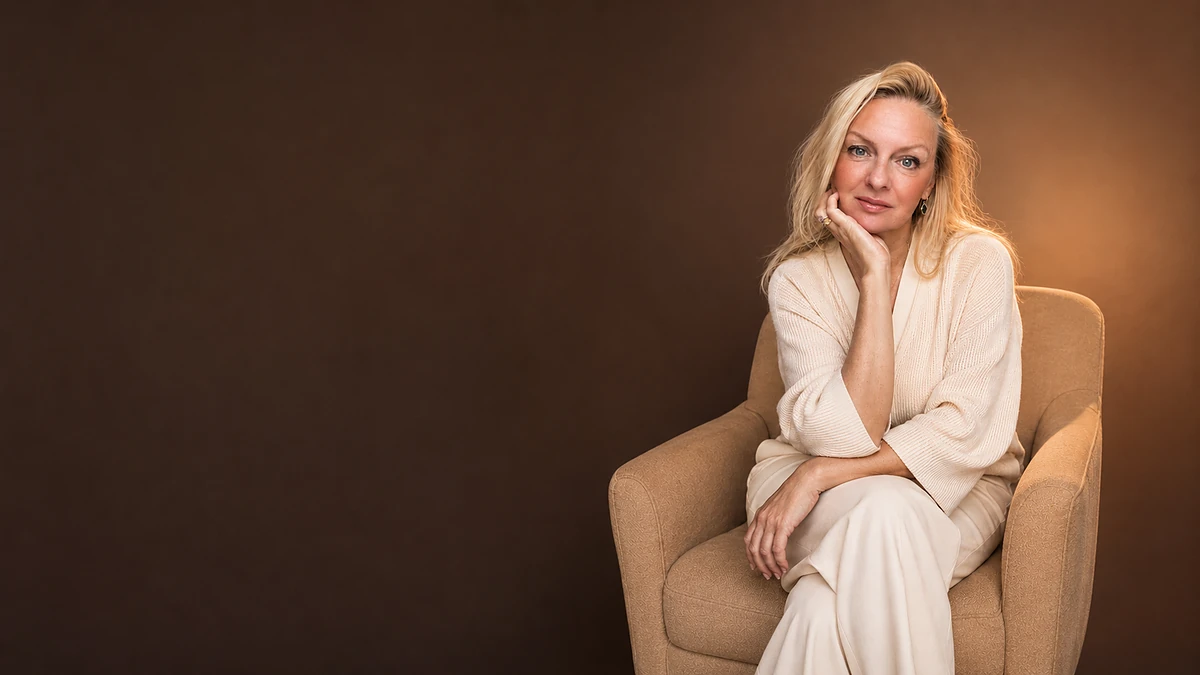
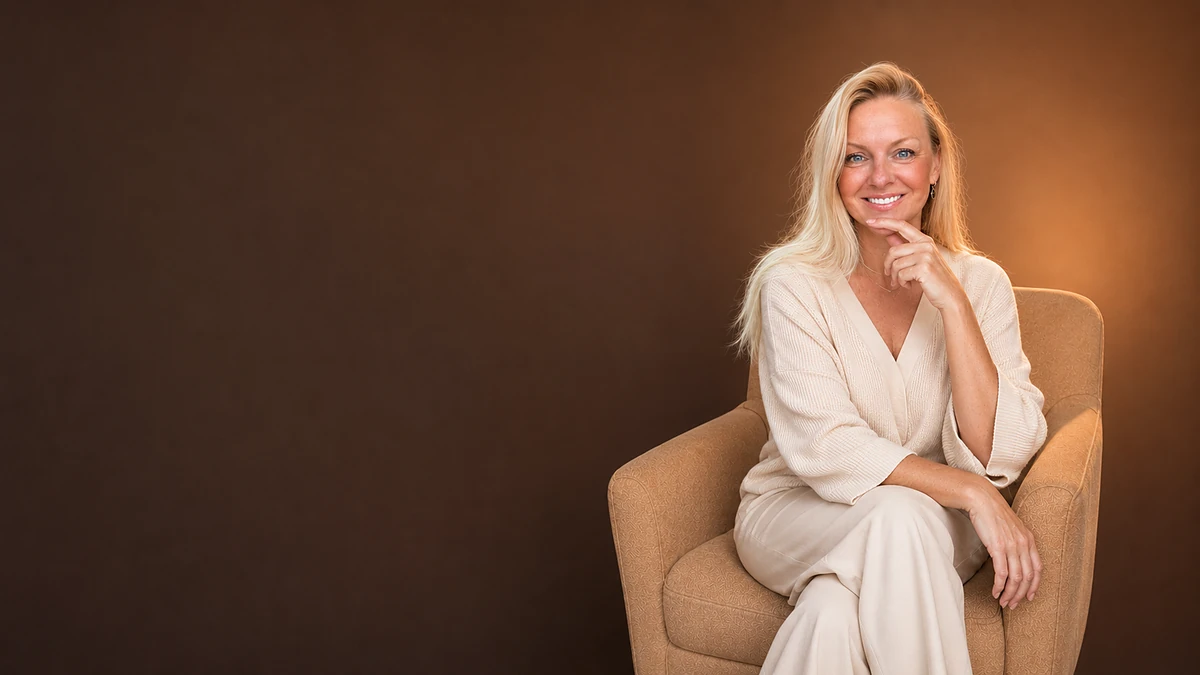
Новое фото на первом экране и кнопка рассрочки к тарифам
Фото. Поставлен новый кадр — Виола улыбается. Он же режется для
телефона: вертикальная часть от x=819 до правого края плюс надставка
сверху. Одно фото на оба экрана, иначе на десктопе одно выражение
лица, а на телефоне другое.

Прежний вертикальный исходник больше не нужен и выведен из репозитория
вместе с исключением в .gitignore.

Рассрочка. Кнопка «Оформить рассрочку» вела в поддержку — теперь ведёт
к тарифам: рассрочка оформляется на той же странице оплаты, что и прямой
платёж, но сначала нужно выбрать тариф. Заодно снят target="_blank",
это якорь на своей же странице.

Changed region(s): [[0.4933, 0.0933, 0.925, 1.0], [0.555, 0.6222, 0.5858, 0.6533]]

diff --git a/site/index.html b/site/index.html
@@ -29,10 +29,10 @@
       <div data-hero-photo="" style="position: absolute; inset: 0;">
         <picture>
           <source media="(max-width: 760px)" type="image/webp"
-                  srcset="/assets/img/hero-mob-760.webp 760w, /assets/img/hero-mob-1086.webp 1086w"
+                  srcset="/assets/img/hero-mob-620.webp 620w, /assets/img/hero-mob-853.webp 853w"
                   sizes="100vw">
           <source media="(max-width: 760px)" type="image/jpeg"
-                  srcset="/assets/img/hero-mob-760.jpg 760w, /assets/img/hero-mob-1086.jpg 1086w"
+                  srcset="/assets/img/hero-mob-620.jpg 620w, /assets/img/hero-mob-853.jpg 853w"
                   sizes="100vw">
           <source type="image/webp"
                   srcset="/assets/img/hero-1200.webp 1200w, /assets/img/hero-1672.webp 1672w"
@@ -741,7 +741,7 @@
       </div>
     </div>
     <div style="display: flex; flex-wrap: wrap; align-items: center; justify-content: center; gap: 18px 22px;">
-      <a class="s2aaf486" href="https://t.me/violamarohelper" target="_blank" rel="noopener" style="display: inline-flex; white-space: nowrap; align-items: center; gap: 12px; background: linear-gradient(160deg, #4A392F 0%, #2B211C 100%); color: #F6F0E8; text-decoration: none; box-shadow: 0 10px 26px -12px rgba(43,33,28,.65), inset 0 1px 0 rgba(255,255,255,.12); font-weight: 600; font-size: 17px; padding: 16px 30px; border-radius: 999px;">Оформить рассрочку<span style="display: inline-flex; align-items: center; justify-content: center; width: 26px; height: 26px; border-radius: 50%; background: rgba(246,240,232,.16); font-size: 14px;">→</span></a>
+      <a class="s2aaf486" href="#tarify" style="display: inline-flex; white-space: nowrap; align-items: center; gap: 12px; background: linear-gradient(160deg, #4A392F 0%, #2B211C 100%); color: #F6F0E8; text-decoration: none; box-shadow: 0 10px 26px -12px rgba(43,33,28,.65), inset 0 1px 0 rgba(255,255,255,.12); font-weight: 600; font-size: 17px; padding: 16px 30px; border-radius: 999px;">Оформить рассрочку<span style="display: inline-flex; align-items: center; justify-content: center; width: 26px; height: 26px; border-radius: 50%; background: rgba(246,240,232,.16); font-size: 14px;">→</span></a>
     </div>
   </div>
 </section>

diff --git a/build-assets/base.css b/build-assets/base.css
@@ -76,7 +76,7 @@ img, picture, svg { max-width: 100%; }
    тогда полоса ложится под текстовую колонку, а портрет уходит к правому
    краю и остаётся видимым целиком. */
 @media (max-width: 760px) {
-  [data-hero-photo] img { object-position: 100% 50%; }
+  [data-hero-photo] img { object-position: 0% 50%; }
 }
 
 /* Нижний текст на телефоне ложится на портрет, поэтому вуаль снизу поднята

diff --git a/site/assets/site.css b/site/assets/site.css
@@ -84,7 +84,7 @@ img, picture, svg { max-width: 100%; }
    тогда полоса ложится под текстовую колонку, а портрет уходит к правому
    краю и остаётся видимым целиком. */
 @media (max-width: 760px) {
-  [data-hero-photo] img { object-position: 100% 50%; }
+  [data-hero-photo] img { object-position: 0% 50%; }
 }
 
 /* Нижний текст на телефоне ложится на портрет, поэтому вуаль снизу поднята

diff --git a/build.py b/build.py
@@ -35,8 +35,10 @@ OUT = os.path.join(ROOT, "site")
 TG = "https://t.me/violamarohelper"
 EMAIL = "mg.ananizh@gmail.com"
 
-# Вертикальный портрет из той же съёмки — исходник первого экрана на телефоне.
-MOBILE_SRC = "ChatGPT Image 15 авг. 2026 г., 07_55_58.png"
+# Телефонный кадр режется из того же снимка, что и десктопный: одно фото
+# на оба экрана, иначе на десктопе одно выражение лица, а на телефоне другое.
+MOBILE_CROP_X = 819      # левее портрета — полоса пустого фона под текст
+MOBILE_EXT = 250         # надставка сверху, чтобы лицо попало между блоками текста
 
 DOCS = [
     ("oferta", "offer", "Публичная оферта"),
@@ -471,31 +473,26 @@ def build_images():
     # десктоп — исходный горизонтальный кадр
     save(im, "hero", (1672, 1200))
 
-    # Телефон берёт другой исходник — вертикальный портрет из той же съёмки.
-    # Он и по композиции нужный (Виола справа, слева пустой фон под текст),
-    # и по разрешению заметно больше горизонтального: 1086×1448 против
-    # кропа 853×941, который приходилось растягивать на высокий экран.
-    vert = Image.open(os.path.join(SRC, "uploads", MOBILE_SRC)).convert("RGB")
-    vw, vh = vert.size
+    # Телефон. Кадр горизонтальный, а экран вдвое уже, чем высок, поэтому
+    # из снимка режется вертикальная часть — от MOBILE_CROP_X до правого края.
+    # Слева в ней остаётся полоса пустого фона: на неё ложится текст.
+    crop = im.crop((MOBILE_CROP_X, 0, W, H))
+    cw = crop.width
 
-    # Кадр всё равно шире экрана телефона по пропорции, поэтому надставляется
-    # сверху: верхняя строка фотографии — ровный тёмный градиент без деталей,
-    # её и растягиваем вверх с затуханием. Шов приходится на неё же и не виден.
-    #
-    # Размер надставки задаёт вертикаль. Текст стоит двумя блоками — шапка
-    # сверху, обещание с кнопкой снизу, — между ними свободная полоса, и лицо
-    # должно попасть в неё. 80 px дают голову с 23%, подбородок на 46%.
-    ext_h = 80
-    row0 = vert.crop((0, 0, vw, 1))
-    top = Image.new("RGB", (vw, ext_h))
-    for i in range(ext_h):
-        k = 0.72 + 0.28 * (i / (ext_h - 1))     # 0.72 наверху → ровно 1.0 на шве
+    # Сверху кадр надставляется: верхняя строка фотографии — ровный тёмный
+    # градиент без деталей, её и растягиваем вверх с затуханием. Шов приходится
+    # на неё же и не виден. Надставка задаёт вертикаль: портрет уезжает вниз,
+    # и лицо попадает в свободную полосу между заголовком и обещанием.
+    row0 = crop.crop((0, 0, cw, 1))
+    top = Image.new("RGB", (cw, MOBILE_EXT))
+    for i in range(MOBILE_EXT):
+        k = 0.72 + 0.28 * (i / (MOBILE_EXT - 1))    # 0.72 наверху → ровно 1.0 на шве
         top.paste(row0.point(lambda v, k=k: int(v * k)), (0, i))
-    mob = Image.new("RGB", (vw, vh + ext_h))
+    mob = Image.new("RGB", (cw, H + MOBILE_EXT))
     mob.paste(top, (0, 0))
-    mob.paste(vert, (0, ext_h))
+    mob.paste(crop, (0, MOBILE_EXT))
 
-    save(mob, "hero-mob", (vw, 760))
+    save(mob, "hero-mob", (cw, 620))
 
     total = sum(os.path.getsize(p) for p in made)
     print("  картинки: %d файлов, %.0f КБ" % (len(made), total / 1024))
@@ -503,10 +500,10 @@ def build_images():
 
 HERO_PICTURE = """<picture>
           <source media="(max-width: 760px)" type="image/webp"
-                  srcset="/assets/img/hero-mob-760.webp 760w, /assets/img/hero-mob-1086.webp 1086w"
+                  srcset="/assets/img/hero-mob-620.webp 620w, /assets/img/hero-mob-853.webp 853w"
                   sizes="100vw">
           <source media="(max-width: 760px)" type="image/jpeg"
-                  srcset="/assets/img/hero-mob-760.jpg 760w, /assets/img/hero-mob-1086.jpg 1086w"
+                  srcset="/assets/img/hero-mob-620.jpg 620w, /assets/img/hero-mob-853.jpg 853w"
                   sizes="100vw">
           <source type="image/webp"
                   srcset="/assets/img/hero-1200.webp 1200w, /assets/img/hero-1672.webp 1672w"
@@ -637,7 +634,20 @@ def build_landing():
         tpl = tpl.replace('onClick="{{ %s }}"' % var,
                           'data-open-form="%s" data-pay="%s"' % (label, key))
 
-    tpl = tpl.replace("{{ contactUrl }}", TG).replace("{{ contact }}", TG)
+    # «Оформить рассрочку» ведёт к тарифам, а не в поддержку: рассрочка
+    # оформляется на той же странице оплаты, что и прямой платёж, но сначала
+    # человек должен выбрать тариф. Заодно снимаем target="_blank" —
+    # это якорь на своей же странице, новая вкладка тут ни к чему.
+    inst = re.search(r'<a href="\{\{ contactUrl \}\}"[^>]*>', tpl)
+    if not inst:
+        raise ValueError("не найдена кнопка «Оформить рассрочку»")
+    fixed = (inst.group(0)
+             .replace('href="{{ contactUrl }}"', 'href="#tarify"')
+             .replace(' target="_blank"', '')
+             .replace(' rel="noopener"', ''))
+    tpl = tpl[:inst.start()] + fixed + tpl[inst.end():]
+
+    tpl = tpl.replace("{{ contact }}", TG)
 
     # <br> внутри h1 не даёт пробела при копировании и в выдаче
     tpl = tpl.replace("Прикладная<br>эмпатия", "Прикладная <br>эмпатия", 1)
